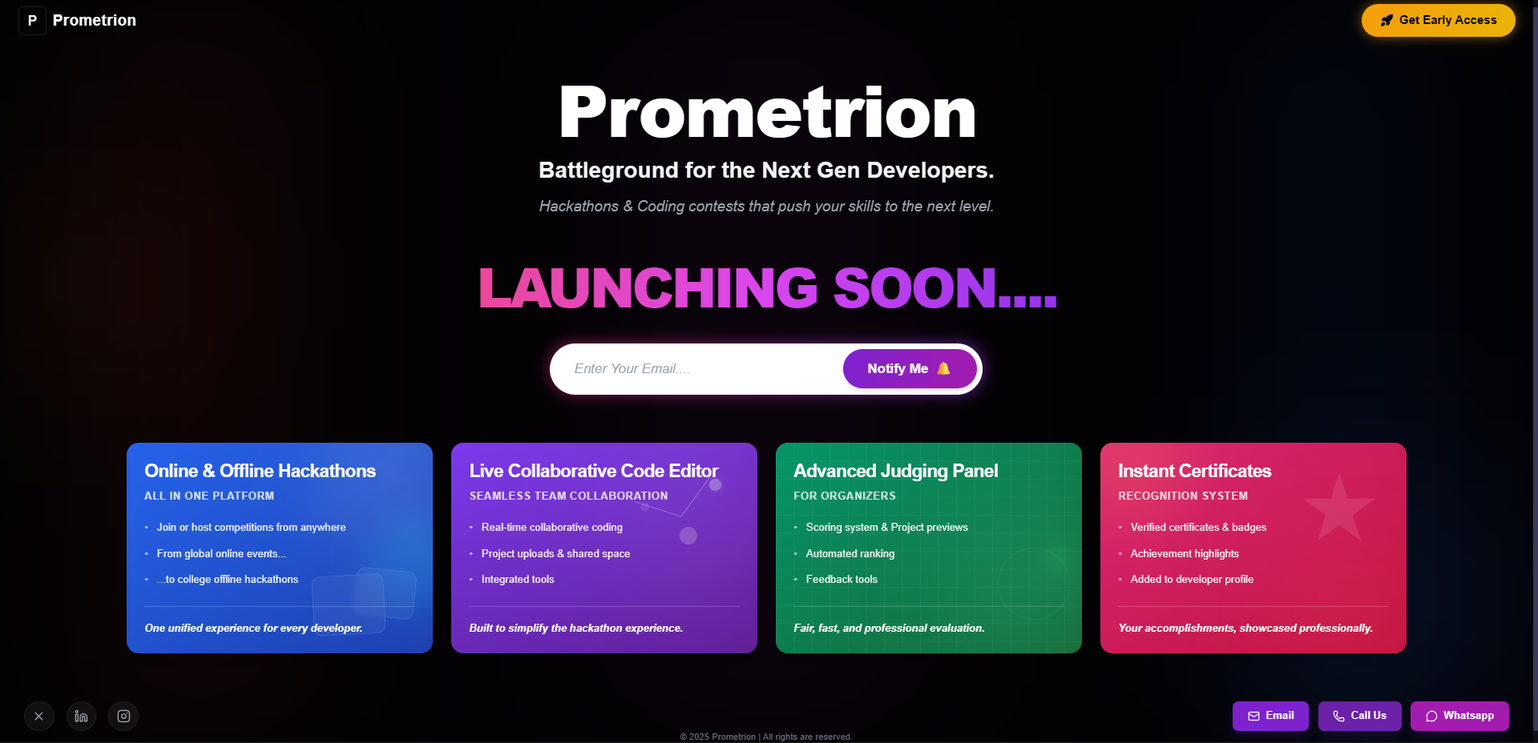
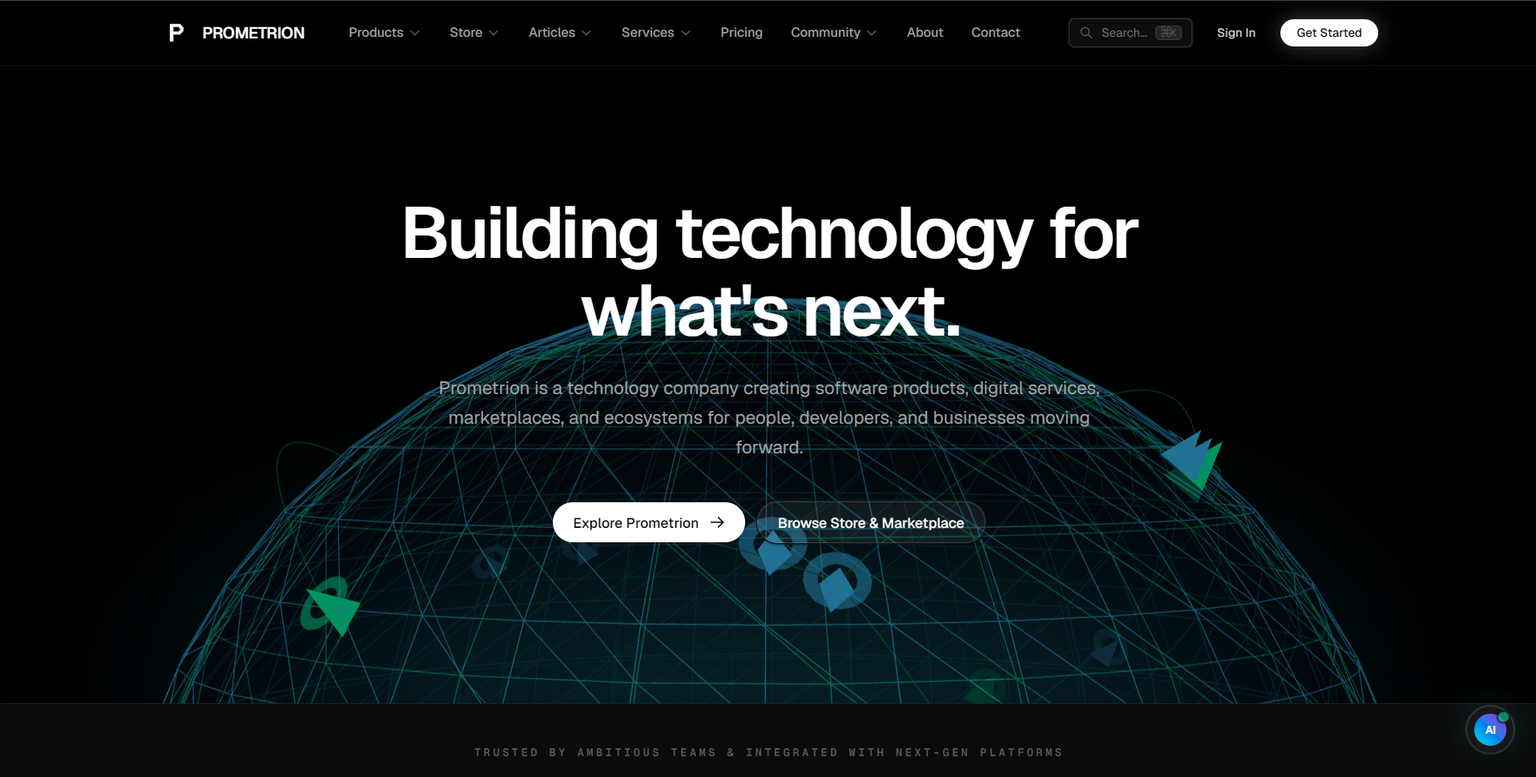
Prometrion project update

diff --git a/data/chatData.ts b/data/chatData.ts
@@ -123,8 +123,8 @@ export const intents: Intent[] = [
     topic: "prometrion_intro",
     patterns: [
       "what is prometrion", "tell me about prometrion", "prometrion kya hai",
-      "prometrion ke baare me batao", "your startup", "his startup",
-      "your platform", "developer arena platform", "dev competition platform",
+      "prometrion ke baare me batao", "your startup", "his startup", "your company", "his company",
+      "software company", "digital services", "prometrion services", "what does prometrion do",
       "prometrion", "why did rajnikant start prometrion", "what problem does prometrion solve",
       "how is prometrion different from other platforms", "prometrion ka idea kaise aaya",
       "ye platform kis cheez ke liye hai", "prometrion vision", "difference between prometrion and other platforms",
@@ -464,13 +464,13 @@ export const knowledgeBase: KnowledgeEntry[] = [
     id: "about_me_en",
     topic: "about_me",
     language: "en",
-    text: "Rajnikant Gaurav is a B.Tech Computer Science student (2022–26) and aspiring founder. He is currently building Prometrion — a competitive developer platform for hackathons and coding contests. He is passionate about shipping real products, learning by building, and making an impact through technology. He is also the creator of Paper UI, the world's only paper-notebook themed UI platform, used on this very portfolio."
+    text: "Rajnikant Gaurav is a B.Tech Computer Science student (2022–26) and founder. He is the founder and CEO of Prometrion (prometrion.com) — an independent technology and software company delivering custom web development, mobile apps, and Generative Engine Optimization (GEO). He is passionate about shipping real products, learning by building, and making an impact through technology. He is also the creator of Paper UI, the world's only paper-notebook themed UI platform, used on this very portfolio."
   },
   {
     id: "about_me_hi",
     topic: "about_me",
     language: "hi",
-    text: "रजनीकांत गौरव एक B.Tech कंप्यूटर साइंस स्टूडेंट (2022–26) और फाउंडर हैं। वो अभी Prometrion बना रहे हैं — एक डेवलपर कॉम्पीटिशन प्लेटफॉर्म। वो असली प्रोडक्ट्स बनाने और टेक्नोलॉजी से बदलाव लाने में यकीन रखते हैं। इसके अलावा वो Paper UI के क्रिएटर हैं — दुनिया का एकमात्र paper-notebook themed UI platform।"
+    text: "रजनीकांत गौरव एक B.Tech कंप्यूटर साइंस स्टूडेंट (2022–26) और फाउंडर हैं। वो Prometrion (prometrion.com) के फाउंडर और CEO हैं — एक टेक्नोलॉजी और सॉफ्टवेयर कंपनी जो कस्टम वेब डेवलपमेंट, मोबाइल ऐप्स और Generative Engine Optimization (GEO) प्रदान करती है। वो असली प्रोडक्ट्स बनाने और टेक्नोलॉजी से बदलाव लाने में यकीन रखते हैं। इसके अलावा वो Paper UI के क्रिएटर हैं — दुनिया का एकमात्र paper-notebook themed UI platform।"
   },
 
   // ─── SKILLS ──────────────────────────────────────────────
@@ -492,13 +492,13 @@ export const knowledgeBase: KnowledgeEntry[] = [
     id: "projects_overview_en",
     topic: "projects_overview",
     language: "en",
-    text: "Rajnikant has built 16 real projects:\n1. Prometrion — developer competition platform (prometrion.com)\n2. Sharpr — polished product web experience (sharpr.in)\n3. Paperfolio — this notebook-style portfolio (rajnikantg.in)\n4. Ultron — AI-themed futuristic UI\n5. Prometrion AI — AI layer for the Prometrion ecosystem\n6. Paper UI Admin Dashboard — admin panel with paper design\n7. Qualytics AI — SaaS frontend clone\n8. LocalLink — local service discovery platform\n9. Pac Man Clone — browser arcade game\n10. Quiz Game — browser quiz game\n11. Study Academy — education landing page\n12. Gazal Suit Ghar — fashion boutique storefront\n13. Skribble Clone — drawing browser game\n14. Alankarini Mehandi Art — mehndi artist portfolio\n15. Zacson — brand-style webpage\n16. Pankaj Consultancy — professional consultancy website"
+    text: "Rajnikant has built 16 real projects:\n1. Prometrion — technology & software company (prometrion.com)\n2. Sharpr — polished product web experience (sharpr.in)\n3. Paperfolio — this notebook-style portfolio (rajnikantg.in)\n4. Ultron — AI-themed futuristic UI\n5. Prometrion AI — AI companion for the Prometrion ecosystem\n6. Paper UI Admin Dashboard — admin panel with paper design\n7. Qualytics AI — SaaS frontend clone\n8. LocalLink — local service discovery platform\n9. Pac Man Clone — browser arcade game\n10. Quiz Game — browser quiz game\n11. Study Academy — education landing page\n12. Gazal Suit Ghar — fashion boutique storefront\n13. Skribble Clone — drawing browser game\n14. Alankarini Mehandi Art — mehndi artist portfolio\n15. Zacson — brand-style webpage\n16. Pankaj Consultancy — professional consultancy website"
   },
   {
     id: "projects_overview_hi",
     topic: "projects_overview",
     language: "hi",
-    text: "रजनीकांत ने 16 real projects बनाए हैं:\n1. Prometrion — डेवलपर कॉम्पीटिशन प्लेटफॉर्म\n2. Sharpr — क्लीन प्रोडक्ट वेब एक्सपीरियंस\n3. Paperfolio — यही notebook portfolio\n4. Ultron — AI-themed futuristic UI\n5. Prometrion AI — AI assistant for Prometrion\n6. Paper UI Admin Dashboard\n7. Qualytics AI clone\n8. LocalLink — लोकल सर्विस प्लेटफॉर्म\n9. Pac Man Clone — ब्राउज़र गेम\n10. Quiz Game — ब्राउज़र क्विज़\n11. Study Academy — एजुकेशन वेबसाइट\n12. Gazal Suit Ghar — फैशन स्टोरफ्रंट\n13. Skribble Clone — ड्रॉइंग गेम\n14. Alankarini Mehandi Art\n15. Zacson — ब्रैंड वेबपेज\n16. Pankaj Consultancy — कंसल्टेंसी वेबसाइट"
+    text: "रजनीकांत ने 16 real projects बनाए हैं:\n1. Prometrion — टेक्नोलॉजी और सॉफ्टवेयर कंपनी (prometrion.com)\n2. Sharpr — क्लीन प्रोडक्ट वेब एक्सपीरियंस\n3. Paperfolio — यही notebook portfolio\n4. Ultron — AI-themed futuristic UI\n5. Prometrion AI — Prometrion इकोसिस्टम का AI कंपैनियन\n6. Paper UI Admin Dashboard\n7. Qualytics AI clone\n8. LocalLink — लोकल सर्विस प्लेटफॉर्म\n9. Pac Man Clone — ब्राउज़र गेम\n10. Quiz Game — ब्राउज़र क्विज़\n11. Study Academy — एजुकेशन वेबसाइट\n12. Gazal Suit Ghar — फैशन स्टोरफ्रंट\n13. Skribble Clone — ड्रॉइंग गेम\n14. Alankarini Mehandi Art\n15. Zacson — ब्रैंड वेबपेज\n16. Pankaj Consultancy — कंसल्टेंसी वेबसाइट"
   },
 
   // ─── PROMETRION ──────────────────────────────────────────
@@ -506,13 +506,13 @@ export const knowledgeBase: KnowledgeEntry[] = [
     id: "prometrion_intro_en",
     topic: "prometrion_intro",
     language: "en",
-    text: "Prometrion (prometrion.com) is Rajnikant's flagship startup — a developer competition platform for hosting hackathons, minithons, and coding contests. It allows colleges, companies, and communities to run events end-to-end: registration, team management, submissions, judging, and certificates. Participants get profiles to build their competitive coding identity. The vision: make Prometrion the default place developers think of for hackathons. Tech: React, TypeScript, Node.js, MongoDB, Realtime features."
+    text: "Prometrion (prometrion.com) is Rajnikant's flagship software company and digital services platform, founded in November 2025. It helps businesses build, launch, and grow through custom website development (Astro, React, Tailwind CSS), native Android application engineering (Kotlin, Flutter), Generative Engine Optimization (GEO / AI search visibility for Google, ChatGPT, Perplexity, Gemini), and 30+ turnkey productized solutions. It also includes the Prometrion Webstore, Appstore, and Prometrion AI multimodal engine. Rajnikant built Prometrion completely as a solo founder and chief architect. Tech: Astro, React, TypeScript, Tailwind CSS, Node.js, Android, PostgreSQL, Edge CDN."
   },
   {
     id: "prometrion_intro_hi",
     topic: "prometrion_intro",
     language: "hi",
-    text: "Prometrion (prometrion.com) रजनीकांत का मुख्य स्टार्टअप है — एक डेवलपर कॉम्पीटिशन प्लेटफॉर्म जहाँ हैकाथॉन्स, मिनिथॉन्स और कोडिंग कॉन्टेस्ट्स होते हैं। कॉलेज, कंपनियाँ और कम्युनिटीज इसपर इवेंट्स चला सकती हैं। Participants अपनी competitive identity बना सकते हैं। Goal: Prometrion को hackathons के लिए default platform बनाना।"
+    text: "Prometrion (prometrion.com) रजनीकांत की मुख्य सॉफ्टवेयर कंपनी और डिजिटल सर्विसेज प्लेटफॉर्म है (नवंबर 2025 में स्थापित)। यह बिज़नेसेज को कस्टम वेबसाइट डेवलपमेंट (Astro, React, Tailwind CSS), नेटिव एंड्रॉइड ऐप इंजीनियरिंग (Kotlin, Flutter), Generative Engine Optimization (GEO - AI सर्च विजिबिलिटी Google, ChatGPT, Gemini के लिए), और 30+ डिजिटल सोल्यूशन्स प्रदान करती है। इसमें Prometrion Webstore, Appstore और Prometrion AI भी शामिल हैं। रजनीकांत ने इसे अकेले solo founder और chief architect के रूप में बनाया है।"
   },
 
   // ─── PAPERFOLIO ──────────────────────────────────────────
@@ -646,13 +646,13 @@ export const knowledgeBase: KnowledgeEntry[] = [
     id: "founder_mindset_en",
     topic: "founder_mindset",
     language: "en",
-    text: "Rajnikant sees himself as a builder and founder — not just a developer. His goal is financial independence through shipping successful products. He believes the best way to learn is by building things people actually use. He treats every side project as a real product with real users. His long-term vision: build Prometrion into the go-to platform for developer competitions globally, and create multiple impactful products."
+    text: "Rajnikant sees himself as a builder and founder — not just a developer. His goal is financial independence through shipping successful products. He believes the best way to learn is by building things people actually use. He treats every side project as a real product with real users. His long-term vision: scale Prometrion into a world-class software company and digital solutions powerhouse globally, and create multiple impactful products."
   },
   {
     id: "founder_mindset_hi",
     topic: "founder_mindset",
     language: "hi",
-    text: "रजनीकांत खुद को एक founder/builder मानते हैं। उनका goal financial independence है real products बनाकर। वो हर side project को real product की तरह treat करते हैं। Long-term vision: Prometrion को globally developer competitions का default platform बनाना।"
+    text: "रजनीकांत खुद को एक founder/builder मानते हैं। उनका goal financial independence है real products बनाकर। वो हर side project को real product की तरह treat करते हैं। Long-term vision: Prometrion को globally एक वर्ल्ड-क्लास सॉफ्टवेयर और टेक्नोलॉजी कंपनी बनाना और कई असरदार प्रोडक्ट्स तैयार करना।"
   },
 
   // ─── EXPERIENCE ──────────────────────────────────────────
@@ -660,13 +660,13 @@ export const knowledgeBase: KnowledgeEntry[] = [
     id: "experience_en",
     topic: "experience",
     language: "en",
-    text: "Rajnikant builds his own experience by creating real platforms. Instead of waiting for opportunities, he creates them. He has:\n• Built and shipped 16 real projects\n• Built Prometrion from scratch as a startup\n• Worked with client businesses (Gazal Suit Ghar, Pankaj Consultancy, Alankarini Mehandi Art)\n• Created the Paper UI design system — MIT licensed\n• Built AI-powered features using Gemini APIs\n• Deployed projects on Vercel, GitHub Pages, and custom domains"
+    text: "Rajnikant builds his own experience by creating real platforms. Instead of waiting for opportunities, he creates them. He has:\n• Built and shipped 16 real projects\n• Founded and built Prometrion from scratch as a software company\n• Worked with client businesses (Gazal Suit Ghar, Pankaj Consultancy, Alankarini Mehandi Art)\n• Created the Paper UI design system — MIT licensed\n• Built AI-powered features using Gemini APIs\n• Deployed projects on Vercel, GitHub Pages, and custom domains"
   },
   {
     id: "experience_hi",
     topic: "experience",
     language: "hi",
-    text: "रजनीकांत अपना experience खुद बनाते हैं:\n• 16 real projects build किए\n• Prometrion startup बनाया\n• Client businesses के लिए websites बनाईं\n• Paper UI design system create किया (MIT licensed)\n• AI features (Gemini APIs) integrate किए\n• Vercel, GitHub Pages पर deploy किया"
+    text: "रजनीकांत अपना experience खुद बनाते हैं:\n• 16 real projects build किए\n• Prometrion को scratch से एक सॉफ्टवेयर कंपनी के रूप में बनाया\n• Client businesses के लिए websites बनाईं\n• Paper UI design system create किया (MIT licensed)\n• AI features (Gemini APIs) integrate किए\n• Vercel, GitHub Pages पर deploy किया"
   },
 
   // ─── PAPERSKILLS.SH CONTENT ──────────────────────────────

diff --git a/data/projects.ts b/data/projects.ts
@@ -20,34 +20,34 @@ export const projectsData: Project[] = [
   {
     id: 'prometrion',
     title: 'Prometrion',
-    tagline: 'Battleground for the next generation of developers.',
-    subTagline: 'Hackathons, minithons, and coding contests in one competitive ecosystem.',
+    tagline: 'Building technology that moves businesses forward.',
+    subTagline: 'Technology & digital services company building software products, web apps, and modern digital solutions.',
     image: prometrionImage,
     demoLink: 'https://www.prometrion.com/',
-    techStack: ['React', 'TypeScript', 'Node.js', 'MongoDB', 'Realtime'],
-    overview: 'Prometrion is a developer competition platform for hosting hackathons, minithons, and daily coding contests. It is designed for students, communities, colleges, and companies that need a complete competition workflow from registration to judging.',
+    techStack: ['Astro', 'React', 'TypeScript', 'Tailwind CSS', 'Node.js', 'Android'],
+    overview: 'Prometrion is a technology and digital services company founded by Rajnikant Gaurav. It helps businesses build, launch, and grow through custom software development, mobile application engineering, Generative Engine Optimization (GEO), and productized digital solutions.',
     problem: [
-      'Hackathon organizers often manage registration, submissions, teams, judging, and certificates across separate tools.',
-      'Participants do not get one clean place to build a competitive coding identity.',
-      'Offline events need better digital workflows without losing the energy of in-person collaboration.',
+      'Businesses and founders struggle to find engineering partners who deliver high-performance web and mobile products with clean architecture and sub-second loading speed.',
+      'Traditional websites lack modern AI search readiness (GEO), semantic JSON-LD structures, and visibility across engines like ChatGPT, Perplexity, and Gemini.',
+      'Managing separate agencies for web development, Android apps, SEO, and maintenance leads to bloated retainers and fragmented quality.',
     ],
     solution: {
-      intro: 'Prometrion brings the competition lifecycle into one focused platform.',
+      intro: 'Prometrion unifies custom software engineering, modern web applications, native mobile apps, and search visibility into a cohesive service ecosystem.',
       features: [
-        'Hackathon and minithon hosting flows',
-        'Team, project, and submission management',
-        'Participant profiles with growth and recognition',
-        'Judging and certificate-ready event workflows',
+        'Custom corporate web platforms and SaaS web apps (Astro, React, Tailwind CSS)',
+        'Native Android and mobile application engineering (Kotlin, Flutter)',
+        'Generative Engine Optimization (GEO) & Semantic SEO for next-gen search discovery',
+        'Turnkey solutions catalog, webstore templates, and 24/7 SLA maintenance support',
       ],
-      summary: 'A single home for coders to compete, build, prove skill, and get noticed.',
+      summary: 'A complete technology partner delivering fast, scalable, and search-optimized digital solutions for modern businesses.',
     },
     market: [
-      'Colleges and tech communities running recurring coding events',
-      'Companies searching for talent through practical challenges',
-      'Student developers who want visible proof of their skills',
+      'Startups and businesses looking for high-performance websites and SaaS platforms',
+      'Enterprises needing native Android applications and custom business automation',
+      'Modern brands wanting Generative Engine Optimization (GEO) and AI search visibility',
     ],
     vision: [
-      'To make Prometrion the default place developers remember when they think of hackathons and coding competitions.',
+      'To build Prometrion into a global technology and software company known for craftsmanship, speed, and business impact.',
     ],
   },
   {
@@ -114,20 +114,20 @@ export const projectsData: Project[] = [
   {
     id: 'prometrion-ai',
     title: 'Prometrion AI',
-    tagline: 'AI companion for the Prometrion ecosystem.',
-    subTagline: 'A focused AI frontend for developer competition workflows.',
+    tagline: 'Multimodal intelligence engine and autonomous agent interface.',
+    subTagline: 'AI companion and intelligence layer for the Prometrion software ecosystem.',
     image: prometrionAiImage,
     demoLink: 'https://prometrion-ai-frontend.vercel.app/',
-    techStack: ['React', 'AI UI', 'Tailwind CSS', 'Vercel'],
-    overview: 'Prometrion AI explores how AI can support developer competitions, from guidance and summaries to smarter participant and organizer workflows.',
-    problem: ['Competition platforms can overwhelm users with rules, tasks, submissions, and deadlines.'],
+    techStack: ['React', 'Next.js', 'Tailwind CSS', 'AI APIs', 'Vercel'],
+    overview: 'Prometrion AI is a multimodal intelligence engine and autonomous agent interface built for complex workflows, reasoning, and smart productivity across the Prometrion software ecosystem.',
+    problem: ['Modern businesses and power users need AI agents that can handle complex multimodal workflows with transparency and real-time step inspection.'],
     solution: {
-      intro: 'Prometrion AI gives the ecosystem a lighter, assistant-driven layer.',
-      features: ['AI-first interface', 'Competition-focused UX', 'Fast hosted prototype'],
-      summary: 'A step toward smarter support inside developer contests.',
+      intro: 'Prometrion AI introduces a streaming, agent-driven interface with execution graph tracking.',
+      features: ['Multimodal prompt and streaming response interface', 'Agent execution graph and step inspector', 'Real-time token and latency monitoring'],
+      summary: 'An intelligent layer for automating and accelerating complex workflows across Prometrion products.',
     },
-    market: ['Hackathon platforms', 'Student developer tools', 'AI-assisted education products'],
-    vision: ['To become the intelligent layer that helps Prometrion users move faster.'],
+    market: ['SaaS platforms needing embedded AI assistance', 'Developers and power users exploring autonomous agents', 'Prometrion enterprise clients adopting AI solutions'],
+    vision: ['To become the intelligent autonomous layer powering Prometrion products and client workflows.'],
   },
   {
     id: 'paper-ui-admin-dashboard',

diff --git a/src/context/AdminDataContext.tsx b/src/context/AdminDataContext.tsx
@@ -99,10 +99,10 @@ const defaultAbout: AboutInfo = {
     'the thrill of shipping something new to the world.',
   ],
   futureGoals: [
-    'Building Prometrion.',
-    'My primary goal is to launch and scale Prometrion into a global hub for developer competitions.',
+    'Building & Scaling Prometrion.',
+    'My primary goal is to launch and scale Prometrion into a global software company and digital solutions powerhouse.',
     'I envision a future where I am financially independent through my own products, creating value',
-    'for thousands of users. I want to transition from a student builder to a full-time founder.',
+    'for businesses and thousands of users. I want to transition from a student builder to a full-time founder.',
   ],
   techStack: ['JavaScript, TypeScript', 'React, Next.js, Tailwind CSS', 'Node.js, Express, REST APIs', 'Python,', 'Git, GitHub, Vercel', 'GenAI API Integration'],
   hobbies: ['Building side projects', 'Exploring Startup Case Studies', 'Playing Chess', 'Drawing'],
@@ -114,7 +114,7 @@ const defaultAbout: AboutInfo = {
   journey: [
     { title: 'The Beginning', body: 'It started in school when I wrote my first HTML line. The magic of seeing code turn into visuals on screen hooked me instantly. I spent my evenings deconstructing websites.' },
     { title: 'College & Exploration', body: 'Entering college in 2022, I dived deep into C++ and Data Structures. But I realized my true calling was building products, not just solving algorithmic puzzles. I picked up React and Node.js.' },
-    { title: 'The Prometrion Era (Now)', body: 'Today, I am channeling all my energy into Prometrion. I am learning about system design, user acquisition, and what it takes to run a tech startup. The journey has just begun!', isPulse: true },
+    { title: 'The Prometrion Era (Now)', body: 'Today, I am channeling all my energy into Prometrion — establishing it as a premier software and digital services company. I am architecting production platforms, scaling turnkey solutions, and helping businesses grow with modern engineering. The journey has just begun!', isPulse: true },
   ],
   education: [
     { institution: 'SHEAT college of engineering and management, Varanasi, UP', degree: 'B.Tech in Computer Science & Engineering', period: '2022 – 2026 (Current)', note: 'Focusing on Full Stack Development & Entrepreneurship.' },
@@ -224,6 +224,17 @@ export const AdminDataProvider: React.FC<{ children: React.ReactNode }> = ({ chi
     const mergedDefaults = defaultProjects.map(defaultProj => {
       const storedProj = storedMap.get(defaultProj.id);
       if (!storedProj) return defaultProj;
+      if (defaultProj.id === 'prometrion') {
+        const isOldHackathon = `${storedProj.tagline} ${storedProj.overview} ${storedProj.subTagline}`.toLowerCase().includes('hackathon') ||
+          `${storedProj.tagline} ${storedProj.overview}`.toLowerCase().includes('competition platform') ||
+          `${storedProj.tagline} ${storedProj.overview}`.toLowerCase().includes('coding contests');
+        if (isOldHackathon) {
+          return {
+            ...defaultProj,
+            image: defaultProj.image || storedProj.image,
+          };
+        }
+      }
       return {
         ...defaultProj,
         ...storedProj,
@@ -235,10 +246,30 @@ export const AdminDataProvider: React.FC<{ children: React.ReactNode }> = ({ chi
     return [...mergedDefaults, ...customProjects];
   })();
 
+  const storedAbout = (() => {
+    if (!stored.about) return defaultAbout;
+    const isOldCompetition = JSON.stringify(stored.about).includes('developer competitions');
+    if (isOldCompetition) {
+      return {
+        ...stored.about,
+        futureGoals: defaultAbout.futureGoals,
+        journey: defaultAbout.journey,
+      };
+    }
+    return stored.about;
+  })();
+
   const storedChatKnowledge = (() => {
     if (!stored.chatKnowledge || !Array.isArray(stored.chatKnowledge)) return defaultKnowledge as AdminKnowledgeEntry[];
     return stored.chatKnowledge.map(item => {
-      if (item.text.includes('Gemini Vision') || item.text.includes('Gemini AI')) {
+      if (
+        item.text.includes('Gemini Vision') ||
+        item.text.includes('Gemini AI') ||
+        (item.topic === 'prometrion_intro' && (item.text.includes('hackathon') || item.text.includes('competition') || item.text.includes('कॉम्पीटिशन'))) ||
+        (item.id.startsWith('about_me') && (item.text.includes('hackathon') || item.text.includes('कॉम्पीटिशन'))) ||
+        (item.id.startsWith('projects_overview') && (item.text.includes('developer competition') || item.text.includes('कॉम्पीटिशन'))) ||
+        (item.id.startsWith('founder_mindset') && (item.text.includes('developer competitions') || item.text.includes('developer competition')))
+      ) {
         const matchingDefault = (defaultKnowledge as AdminKnowledgeEntry[]).find(dk => dk.id === item.id);
         if (matchingDefault) return matchingDefault;
       }
@@ -249,7 +280,7 @@ export const AdminDataProvider: React.FC<{ children: React.ReactNode }> = ({ chi
   const [data, setData] = useState<PortfolioData>({
     general: storedGeneral ?? defaultGeneral,
     projects: storedProjects,
-    about: stored.about ?? defaultAbout,
+    about: storedAbout,
     contact: stored.contact ?? defaultContact,
     donateTiers: storedDonateTiers,
     sponsorTiers: stored.sponsorTiers ?? defaultSponsorTiers,

diff --git a/services/chatService.ts b/services/chatService.ts
@@ -112,6 +112,7 @@ const KEYWORD_MAP: Record<string, string> = {
   // Prometrion
   'prometrion': 'PROMETRION_INTRO',
   'startup': 'PROMETRION_INTRO',
+  'company': 'PROMETRION_INTRO',
   'hackathon': 'PROMETRION_INTRO',
   'competition': 'PROMETRION_INTRO',
 
